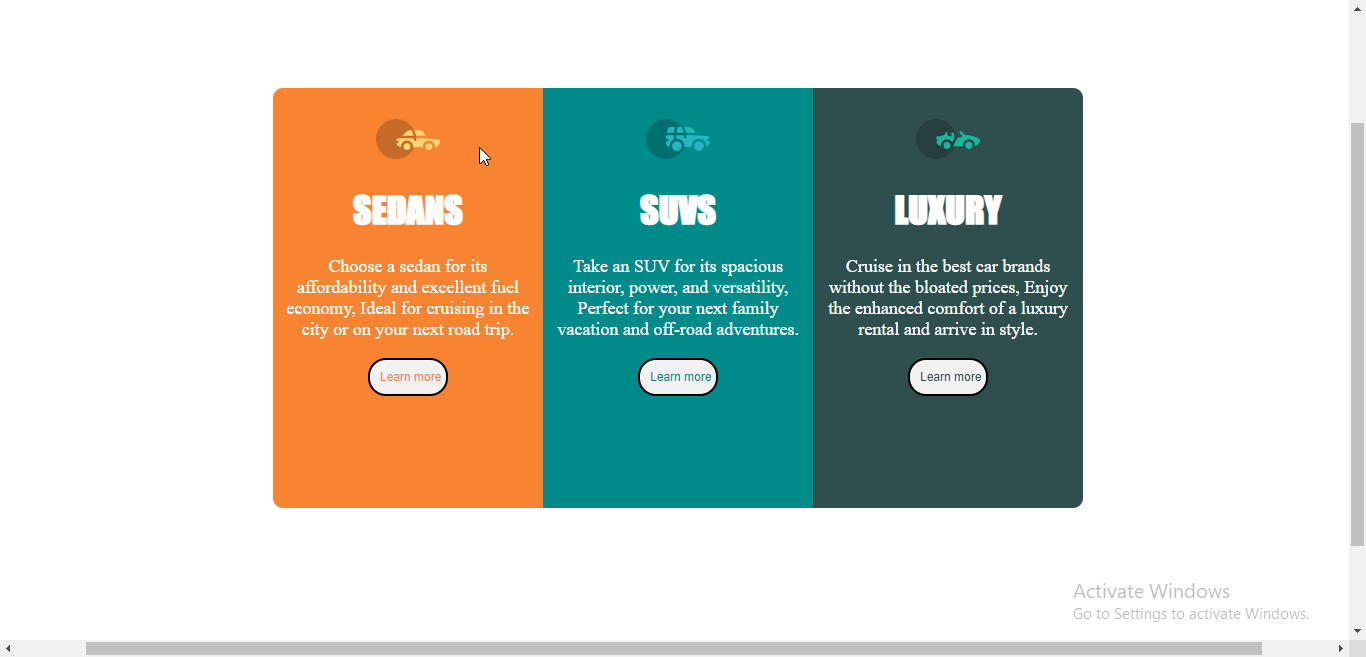
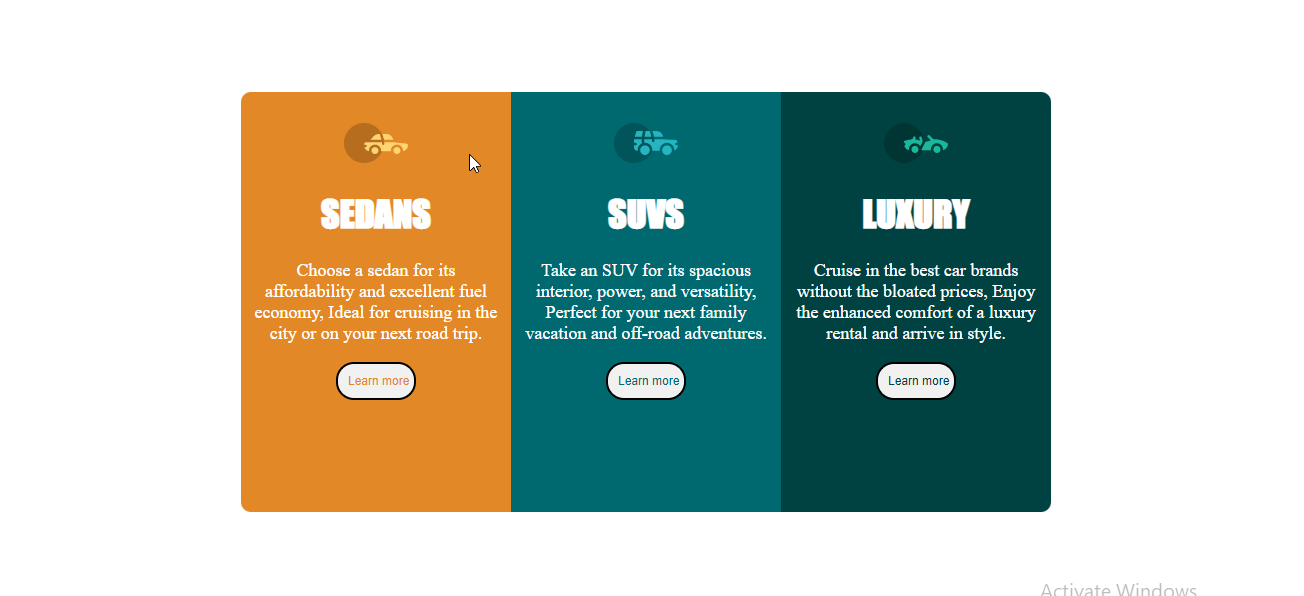
updated

diff --git a/portfolio.html b/portfolio.html
@@ -66,7 +66,6 @@
         </nav> <!-- end of navbar -->
         <!-- end of navigation -->
     
-    
        <!-- Projects -->
         <div id="projects" class="basic-3">
             <div class="container">
@@ -80,25 +79,41 @@
                     <div class="col-lg-12">
                         <div class="text-container">
                             <div class="image-container">
-                                <a href="project.html">
+                                <a href="https://thehuddlelandingpage.netlify.app/">
                                     <img class="img-fluid" src="images/huddle.png" alt="alternative">
                                 </a>
                             </div> <!-- end of image-container -->
                             <p><strong>Huddle landing page</strong> built during training at Hertechtrail Academy Cohort 3</p>
-                        </div> <!-- end of text-container -->
+                        </div>
+                    </div>
+                </div>     <!-- end of text-container -->
                         <div class="row">
                             <div class="col-lg-12">
                                 <div class="text-container">
                                     <div class="image-container">
-                                        <a href="project.html">
+                                        <a href="https://flexbox-ass.netlify.app/">
                                             <img class="img-fluid" src="images/preview card.png" alt="alternative">
                                         </a>
                                     </div> <!-- end of image-container -->
                                     <p><strong>Preview card </strong>designed during training with Hertechtrail Academy Cohort 3</p>
                                 </div> <!-- end of text-container -->
-        <div class="row">
-            <div class="col-lg-12">
-                <div class="text-container">
+                            </div>
+                        </div> 
+                        <div class="row">
+                            <div class="col-lg-12">
+                                <div class="text-container">
+                                    <div class="image-container">
+                                        <a href="https://myform7.netlify.app/">
+                                            <img class="img-fluid" src="images/form.png" alt="alternative">
+                                        </a>
+                                    </div> <!-- end of image-container -->
+                                    <p><strong>My Form </strong>designed during training with Hertechtrail Academy Cohort 3</p>
+                                </div> <!-- end of text-container -->
+                            </div>
+                        </div>       
+                <div class="row">
+                    <div class="col-lg-12">
+                        <div class="text-container">
                             <h2>Why Work With Me</h2>
                             <p>I am a great communicator and love to invest the necessary time to understand the customer's problem very well</p>
                             <h5>DESIGN TOOLS</h5>
@@ -111,9 +126,11 @@
                                 <img src="images/details-icon-css.png" alt="alternative">
                                 <img src="images/details-icon-bootstrap.png" alt="alternative">
                                 <img src="images/details-icon-javascript.png" alt="alternative">
-                            </div> <!-- end of icons-container -->
-                        </div> <!-- end of text-container -->
-                        <!-- end of text container -->
+                        </div> <!-- end of icons-container -->
+                    </div> <!-- end of text-container -->
+                </div>
+            </div>
+        </div>                <!-- end of text container -->
     <!-- Questions -->
     
      <!-- Copyright -->
@@ -177,7 +194,6 @@
             </div> <!-- end of row -->
         </div> <!-- end of container -->
     </div> <!-- end of footer -->  
-    <!-- end of footer -->
 
 <!-- Scripts -->
 <script src="js/jquery.min.js"></script> <!-- jQuery for Bootstrap's JavaScript plugins -->

diff --git a/css/styles.css b/css/styles.css
@@ -576,7 +576,6 @@ input[type="checkbox"] {
     width: 300px;
     height: 350px;
     padding: 10px;
-    
     text-align: center;
     font-size: 18px;
 }
@@ -584,8 +583,8 @@ input[type="checkbox"] {
     width: 350px;
     height: 400px;
     padding: 10px;
-    border: #0b36a8 2px dotted;
-    border-radius: 10px;
+    border: rgb(35, 11, 248) 2px solid;
+    border-radius: 200px;
     text-align: center;
     font-size: 18px;
 }
@@ -593,8 +592,8 @@ input[type="checkbox"] {
   width: 350px;
   height: 400px;
   padding: 10px;
-  border: #0b36a8 2px dotted;
-  border-radius: 10px;
+  border: rgb(35, 11, 248) 2px solid;
+  border-radius: 200px;
   text-align: center;
   font-size: 18px;
 }
@@ -922,7 +921,7 @@ input[type="checkbox"] {
 }
 
 .copyright .p-small {
-  color: #ffffff
+  color: #ffffff;
   text-align: center;
 }
 
@@ -1013,6 +1012,11 @@ a:hover.back-to-top {
 /* Min-width 768px */
 @media (min-width: 768px) {
   /* Header */
+  .header .h1-large span {
+  font-size: 25px;
+  margin-bottom: 1.75rem;
+  color: #ffffff;
+}
   .header {
     padding-top: 11rem;
     padding-bottom: 9rem;
@@ -1240,11 +1244,19 @@ a:hover.back-to-top {
   /* About */
   .basic-1 .text-container.first {
     margin-right: 2rem;
+    padding-left: 5rem;
+    padding-right: 5rem;
+    display: flex;
+    flex-wrap: wrap;
+    justify-content: center;
+    align-items: center;
   }
 
   .basic-1 .text-container.second {
     margin-right: 1rem;
     margin-left: 1rem;
+
+
   }
 
   .basic-1 .text-container.third {

diff --git a/about.html b/about.html
@@ -55,7 +55,7 @@
                         <a class="nav-link page-scroll" href="about.html">About</a>
                     </li>
                     <li class="nav-item">
-                        <a class="nav-link page-scroll" href="portfolio.html">portfolio</a>
+                        <a class="nav-link page-scroll" href="portfolio.html">Portfolio</a>
                     </li>
                     <li class="nav-item">
                         <a class="nav-link page-scroll" href="contact.html">Contact</a>
@@ -159,8 +159,11 @@
     </div> <!-- end of footer -->  
     <!-- end of footer -->
 
-
+<!-- Scripts -->
+<script src="js/jquery.min.js"></script> <!-- jQuery for Bootstrap's JavaScript plugins -->
+<script src="js/bootstrap.min.js"></script> <!-- Bootstrap framework -->
+<script src="js/jquery.easing.min.js"></script> <!-- jQuery Easing for smooth scrolling between anchors -->
+<script src="js/scripts.js"></script> <!-- Custom scripts -->
  
-
 </body>
 </html>

diff --git a/index.html b/index.html
@@ -56,7 +56,7 @@
                         <a class="nav-link page-scroll" href="about.html">About</a>
                     </li>
                     <li class="nav-item">
-                        <a class="nav-link page-scroll" href="portfolio.html">portfolio</a>
+                        <a class="nav-link page-scroll" href="portfolio.html">Portfolio</a>
                     </li>
                     <li class="nav-item">
                         <a class="nav-link page-scroll" href="contact.html">Contact</a>

diff --git a/contact.html b/contact.html
@@ -171,8 +171,6 @@
     </div> <!-- end of footer -->  
     <!-- end of footer -->
 
-
-    	
     <!-- Scripts -->
     <script src="js/jquery.min.js"></script> <!-- jQuery for Bootstrap's JavaScript plugins -->
     <script src="js/bootstrap.min.js"></script> <!-- Bootstrap framework -->
